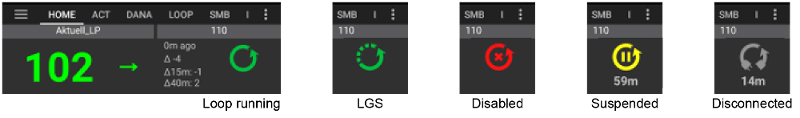
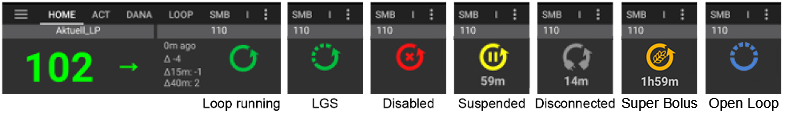
screenshot update
Add two missing "loop icons" (super bolus and open loop)
Add Autosens icons and explain
update config builder image

Changed region(s): [[0.3438, 0.0, 1.0, 0.9407]]

diff --git a/docs/EN/Getting-Started/Screenshots.md b/docs/EN/Getting-Started/Screenshots.md
@@ -56,8 +56,10 @@ This is the first screen you will come across when you open AndroidAPS and it co
    * red circled = loop disabled (not working permanently)
    * yellow circle = loop suspended (temporarily paused but basal insulin will be given) - remaining time is shown below icon
    * grey circle = pump disconnected (temporarily no insulin dosage at all) - remaining time is shown below icon
+   * Orange circle = super bolus running - remaining time is shown below icon
+   * blue circle with dotted line = open loop
    
-* Long press the icon to open the menu to disable, suspend, reenable loop or disconnect / reconnect pump.
+* Long press the icon to open the menu to disable, suspend, re enable loop or disconnect / reconnect pump.
 
    ![Loop status menu](../images/Home2020_LoopStatusMenu.png)
 
@@ -73,7 +75,7 @@ This is the first screen you will come across when you open AndroidAPS and it co
 * Grain: [carbs on board (COB)](../Usage/COB-calculation.rst) - yet unabsorbed carbs you have eaten before
   -> icon pulses if carbs are required 
 * Purple line: basal rate - icon changes reflecting temporary changes in basal rate (flat at 100%)
-* Arrows up & down: indicating actual [autosens](../Usage/Open-APS-features#autosens) status
+* Arrows up & down: indicating actual [autosens](../Usage/Open-APS-features#autosens) status (enabled or disabled) and value is shown below icon
 
 #### Carbs required
 ![Carbs required](../images/Home2020_CarbsRequired.png)
@@ -106,7 +108,7 @@ This is the first screen you will come across when you open AndroidAPS and it co
 * The green area reflects your target range. It can be configured in [preferences](../Configuration/Preferences#range-for-visualization).
 * Blue triangles show [SMB](../Usage/Open-APS-features#super-micro-bolus-smb) - if enabled in [preferences](.../Configuration/Preferences#openaps-smb-settings).
 * Optional information:
-   
+  
    * Predictions
    * Basals
    * Activity - insulin activity curve
@@ -277,7 +279,7 @@ When you want to make a meal bolus this is where you will normally make it from.
 # ************************************
 # Hier geht es weiter!
 # ************************************    
- 
+
 
 
 
@@ -351,9 +353,9 @@ These are simply logs of treatments (boluses and carbs), xDrip messages and mess
 
 ## Config Builder
 
-![Config Builder](../images/Screenshot_config_builder.png)
+![Config Builder](../images/Screenshot_config_builder_2020.png)
 
-This is where you will set up the configuration of your AndroidAPS rig. This screenshot shows a pretty typical rig using a Combo pump, a Dexcom G5 CGM sensor being managed via xDrip+ and running with NovoRapid insulin on an Oref profile and connected to a Nightscout cloud based server.
+This is where you will set up the configuration of your AndroidAPS rig. This screenshot shows a pretty typical rig using an Insight pump, a Dexcom G5 CGM sensor being managed via xDrip+ and running with NovoRapid insulin on a Local profile and connected to a Nightscout cloud based server.
 
 The tick box on the right determines if that particular module will be displayed in the top menu bar (see section A at Homescreen) and the small gear wheel symbol allows access to the setting for that module, if there are any.
 
